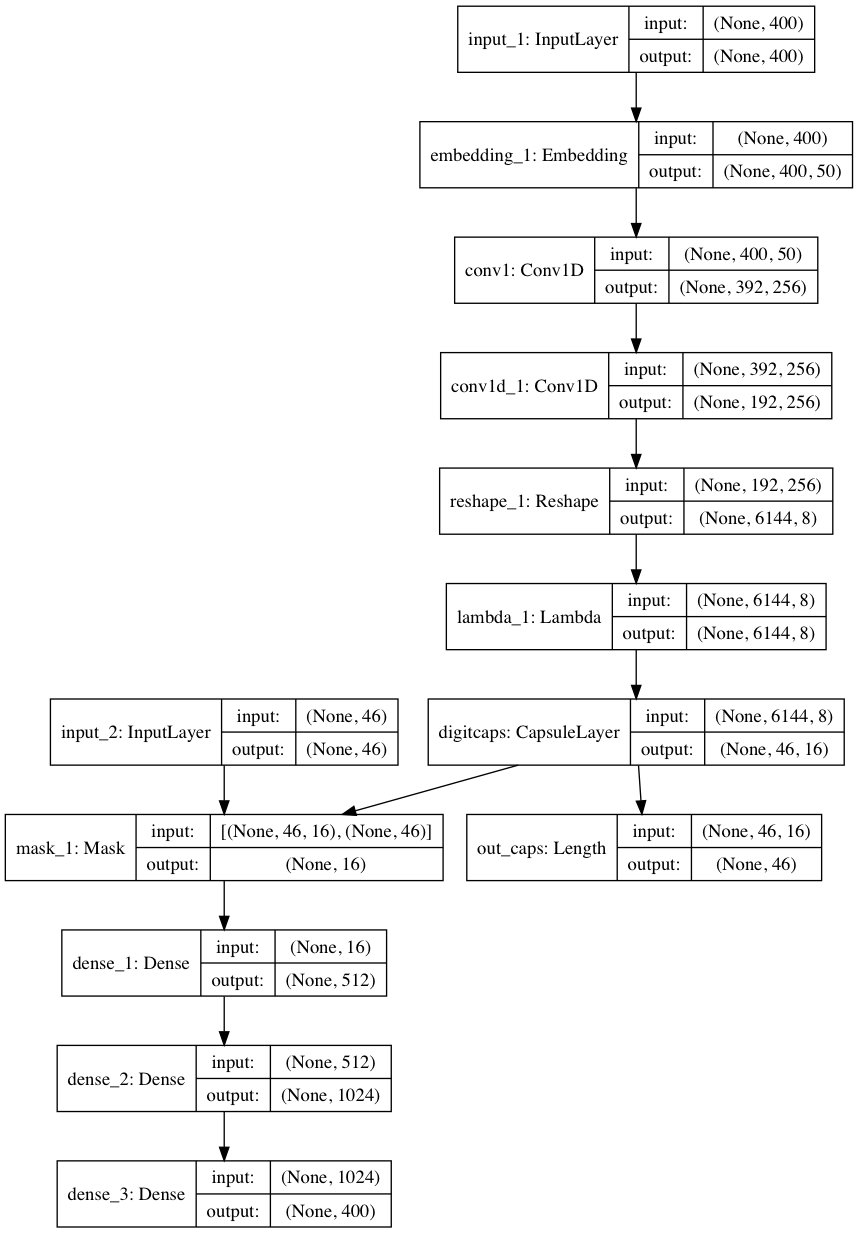
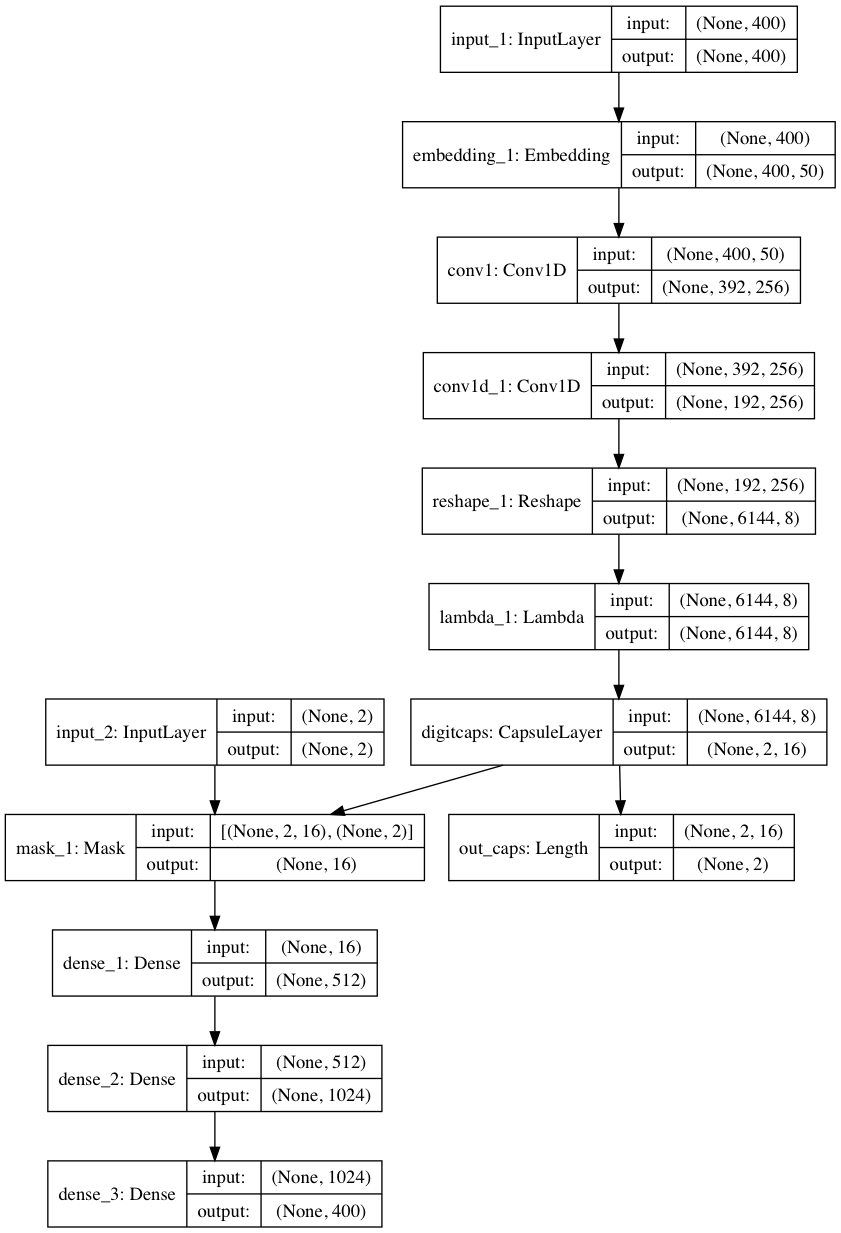
adds reuters code

diff --git a/reuters.py b/reuters.py
@@ -1,0 +1,73 @@
+'''Trains and evaluate a simple MLP
+on the Reuters newswire topic classification task.
+'''
+from __future__ import print_function
+
+import numpy as np
+import keras
+from keras.datasets import reuters
+from keras.models import Sequential
+from keras.layers import Dense, Dropout, Activation
+from keras.preprocessing.text import Tokenizer
+
+max_words = 1000
+batch_size = 32
+epochs = 5
+
+print('Loading data...')
+(x_train, y_train), (x_test, y_test) = reuters.load_data(num_words=max_words,
+                                                         test_split=0.2)
+print(len(x_train), 'train sequences')
+print(len(x_test), 'test sequences')
+
+num_classes = np.max(y_train) + 1
+print(num_classes, 'classes')
+
+print('Vectorizing sequence data...')
+tokenizer = Tokenizer(num_words=max_words)
+x_train = tokenizer.sequences_to_matrix(x_train, mode='binary')
+x_test = tokenizer.sequences_to_matrix(x_test, mode='binary')
+print('x_train shape:', x_train.shape)
+print('x_test shape:', x_test.shape)
+
+print('Convert class vector to binary class matrix '
+      '(for use with categorical_crossentropy)')
+y_train = keras.utils.to_categorical(y_train, num_classes)
+y_test = keras.utils.to_categorical(y_test, num_classes)
+print('y_train shape:', y_train.shape)
+print('y_test shape:', y_test.shape)
+
+print('Building model...')
+model = Sequential()
+model.add(Dense(512, input_shape=(max_words,)))
+model.add(Activation('relu'))
+model.add(Dropout(0.5))
+model.add(Dense(num_classes))
+model.add(Activation('softmax'))
+
+model.compile(loss='categorical_crossentropy',
+              optimizer='adam',
+              metrics=['accuracy'])
+
+history = model.fit(x_train, y_train,
+                    batch_size=batch_size,
+                    epochs=epochs,
+                    verbose=1,
+                    validation_split=0.1)
+score = model.evaluate(x_test, y_test,
+                       batch_size=batch_size, verbose=1)
+print('Test score:', score[0])
+print('Test accuracy:', score[1])
+
+
+# 8083/8083 [==============================] - 1s - loss: 1.4334 - acc: 0.6759 - val_loss: 1.0897 - val_acc: 0.7664
+# Epoch 2/5
+# 8083/8083 [==============================] - 1s - loss: 0.7876 - acc: 0.8173 - val_loss: 0.9397 - val_acc: 0.7853
+# Epoch 3/5
+# 8083/8083 [==============================] - 1s - loss: 0.5477 - acc: 0.8647 - val_loss: 0.8997 - val_acc: 0.7964
+# Epoch 4/5
+# 8083/8083 [==============================] - 1s - loss: 0.4160 - acc: 0.8984 - val_loss: 0.8812 - val_acc: 0.8109
+# Epoch 5/5
+# 8083/8083 [==============================] - 1s - loss: 0.3250 - acc: 0.9170 - val_loss: 0.9113 - val_acc: 0.8009
+# 1952/2246 [=========================>....] - ETA: 0sTest score: 0.88778052623
+# Test accuracy: 0.792074799644

diff --git a/reuters_cnn.py b/reuters_cnn.py
@@ -1,41 +1,61 @@
-'''This example demonstrates the use of Convolution1D for text classification.
-Gets to 0.89 test accuracy after 2 epochs.
-90s/epoch on Intel i5 2.4Ghz CPU.
-10s/epoch on Tesla K40 GPU.
+'''Trains and evaluate a simple MLP
+on the Reuters newswire topic classification task.
 '''
-
 from __future__ import print_function
+
+import numpy as np
+import keras
+from keras.datasets import reuters
+from keras.models import Sequential
+from keras.layers import Dense, Dropout, Activation
+from keras.preprocessing.text import Tokenizer
 
 from keras.preprocessing import sequence
 from keras.models import Sequential, Model
 from keras.layers import Dense, Dropout, Activation
 from keras.layers import Embedding
 from keras.layers import Conv1D, GlobalMaxPooling1D, Input
-from keras.datasets import imdb
 
-# set parameters:
-max_features = 5000
-maxlen = 400
+
+max_words = 1000
 batch_size = 32
+epochs = 2
+
+max_features = 5000
+maxlen = 1000
 embedding_dims = 50
 filters = 250
 kernel_size = 3
 hidden_dims = 250
-epochs = 2
+
+
+
 
 print('Loading data...')
-(x_train, y_train), (x_test, y_test) = imdb.load_data(num_words=max_features)
+(x_train, y_train), (x_test, y_test) = reuters.load_data(num_words=max_words,
+                                                         test_split=0.2)
 print(len(x_train), 'train sequences')
 print(len(x_test), 'test sequences')
 
-print('Pad sequences (samples x time)')
-x_train = sequence.pad_sequences(x_train, maxlen=maxlen)
-x_test = sequence.pad_sequences(x_test, maxlen=maxlen)
+num_classes = np.max(y_train) + 1
+print(num_classes, 'classes')
+
+print('Vectorizing sequence data...')
+tokenizer = Tokenizer(num_words=max_words)
+x_train = tokenizer.sequences_to_matrix(x_train, mode='binary')
+x_test = tokenizer.sequences_to_matrix(x_test, mode='binary')
 print('x_train shape:', x_train.shape)
 print('x_test shape:', x_test.shape)
-print('y_train shape:', y_train.shape)
 
-print('Build model...')
+print('Convert class vector to binary class matrix '
+      '(for use with categorical_crossentropy)')
+y_train = keras.utils.to_categorical(y_train, num_classes)
+y_test = keras.utils.to_categorical(y_test, num_classes)
+print('y_train shape:', y_train.shape)
+print('y_test shape:', y_test.shape)
+
+print('Building model...')
+
 
 x = Input(shape=(maxlen, ))
 embed = Embedding(max_features, embedding_dims, input_length=maxlen)(x)
@@ -53,7 +73,7 @@ x_out = Dense(hidden_dims, )(pool)
 dropout = Dropout(0.2)(x_out)
 
 out = Activation('relu')(dropout)
-x_out = Dense(1, activation='sigmoid')(out)
+x_out = Dense(46, activation='sigmoid')(out)
 
 model = Model(x, x_out)
 

diff --git a/capsulenet.py b/capsulenet.py
@@ -144,13 +144,12 @@ def load_imdb(maxlen=400):
     from keras.datasets import imdb
 
     (x_train, y_train), (x_test, y_test) = imdb.load_data(num_words=max_features)
-    x_train = sequence.pad_sequences(x_train, maxlen=maxlen)
-    x_test = sequence.pad_sequences(x_test, maxlen=maxlen)
-    # return (x_train, y_train), (x_test, y_test)
-
+    # (x_train, y_train), (x_test, y_test) = reuters.load_data(num_words=max_words,
+                                                            # test_split=0.2)
+    # x_train = sequence.pad_sequences(x_train, maxlen=maxlen)
+    # x_test = sequence.pad_sequences(x_test, maxlen=maxlen)
     print('Loading data...')
-    (x_train, y_train), (x_test, y_test) = reuters.load_data(num_words=max_words,
-                                                             test_split=0.2)
+   
     print(len(x_train), 'train sequences')
     print(len(x_test), 'test sequences')
 
